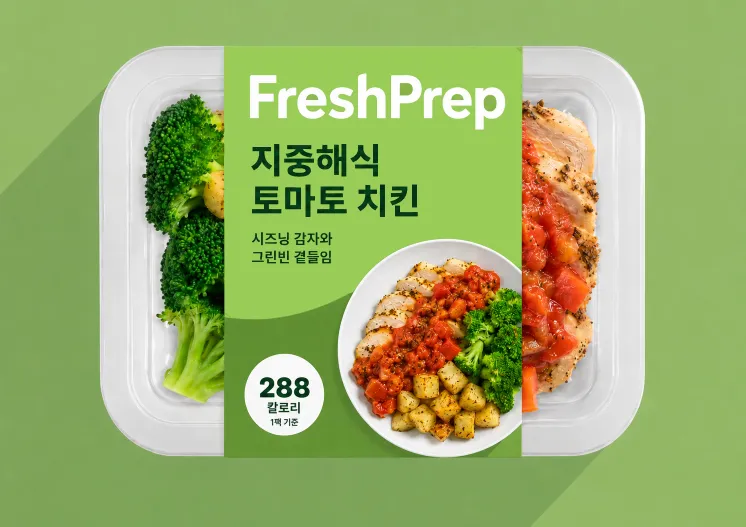
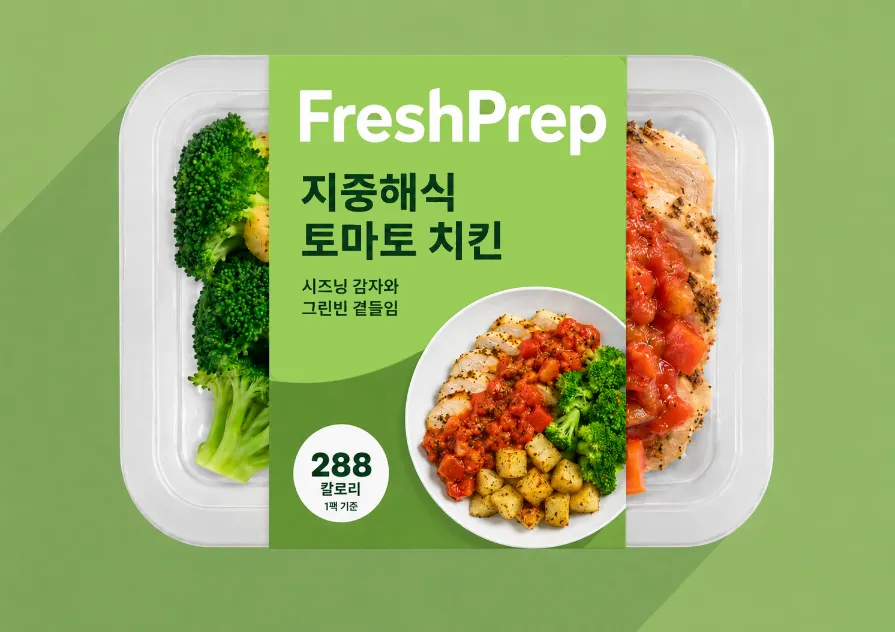
undo

diff --git a/index.html b/index.html
@@ -80,7 +80,7 @@ content="건강한 한 끼, 직장인 도시락 정기구독 정기배송 서비
   align-items: center;
   justify-content: center;
   padding: 100px 5vw 60px;
-  background: #8cc85a;
+  background: #a2d078;
   position: relative;
   overflow: hidden;
   min-height: 520px;
@@ -96,10 +96,6 @@ content="건강한 한 끼, 직장인 도시락 정기구독 정기배송 서비
   z-index: 1;
 }
 .hero-content { position: relative; z-index: 1; }
-
-/* PC: 밀박스 1개, 모바일용 3개 슬라이드는 숨김 */
-.hero-meals-mobile { display: none; }
-.hero-visual { display: flex; }
 .hero-badge {
   display: inline-flex; align-items: center; gap: 6px;
   background: rgba(255,255,255,0.25); color: #fff;
@@ -676,53 +672,15 @@ content="건강한 한 끼, 직장인 도시락 정기구독 정기배송 서비
     gap: 1rem;
   }
 
-    /* Hero 모바일: 1단 컬럼, 텍스트 중앙 정렬 */
-    .hero {
-      padding: 88px 5vw 0;
-      min-height: unset;
-      background: #8cc85a;
-    }
-    .hero-inner {
-      grid-template-columns: 1fr;
-      text-align: center;
-      gap: 1.5rem;
-    }
+    .hero-inner { grid-template-columns: 1fr; text-align: center; }
     .hero p { max-width: 100%; }
     .hero-actions { justify-content: center; }
     .hero-trust { justify-content: center; }
-
-    /* PC용 단일 이미지 패널 숨기기 */
-    .hero-visual { display: none; }
-
-    /* 모바일 3개 밀박스 표시 */
-    .hero-meals-mobile {
-      display: flex;
-      gap: 0;
-      width: calc(100% + 10vw);
-      margin-left: -5vw;
-      margin-top: 1.5rem;
-      overflow: hidden;
-    }
-    .hero-meal-item {
-      flex: 1;
-      min-width: 0;
-      overflow: hidden;
-    }
-    .hero-meal-item img {
-      width: 100%;
-      height: 190px;
-      object-fit: cover;
-      display: block;
-    }
-    /* 가운데 아이템에 살짝 scale-up 효과 */
-    .hero-meal-item:nth-child(2) img {
-      transform: scale(1.04);
-      transform-origin: top center;
-    }
-
+    .hero-visual { display: flex; margin-top: 0; order: -1; }
     .hero-content { order: 0; }
-    .float-badge-1 { display: none; }
-    .float-badge-2 { display: none; }
+    .hero-img-wrap img { width: 100%; max-width: 320px; }
+    .float-badge-1 { bottom: 10px; left: 0; font-size: 11px; padding: 7px 10px; }
+    .float-badge-2 { top: 20px; right: 0; font-size: 11px; padding: 7px 10px; }
     .steps { grid-template-columns: 1fr; }
     .plans { grid-template-columns: 1fr; }
     .plan-card.featured { transform: none; }
@@ -825,19 +783,6 @@ content="건강한 한 끼, 직장인 도시락 정기구독 정기배송 서비
       매주 새 레시피
     </div>
   </div> -->
-  </div>
-
-  <!-- 모바일 전용: 밀박스 3개 가로 배열 -->
-  <div class="hero-meals-mobile">
-    <div class="hero-meal-item">
-      <img src="images/Roasted-duck.webp" alt="시그니처 덕 스테이크">
-    </div>
-    <div class="hero-meal-item">
-      <img src="images/Packaging_hero_bright.webp" alt="프레시프렙 패키지">
-    </div>
-    <div class="hero-meal-item">
-      <img src="images/lasagne-on-plate.jpg" alt="키토 시그니처 라자냐">
-    </div>
   </div>
 </section>
 
